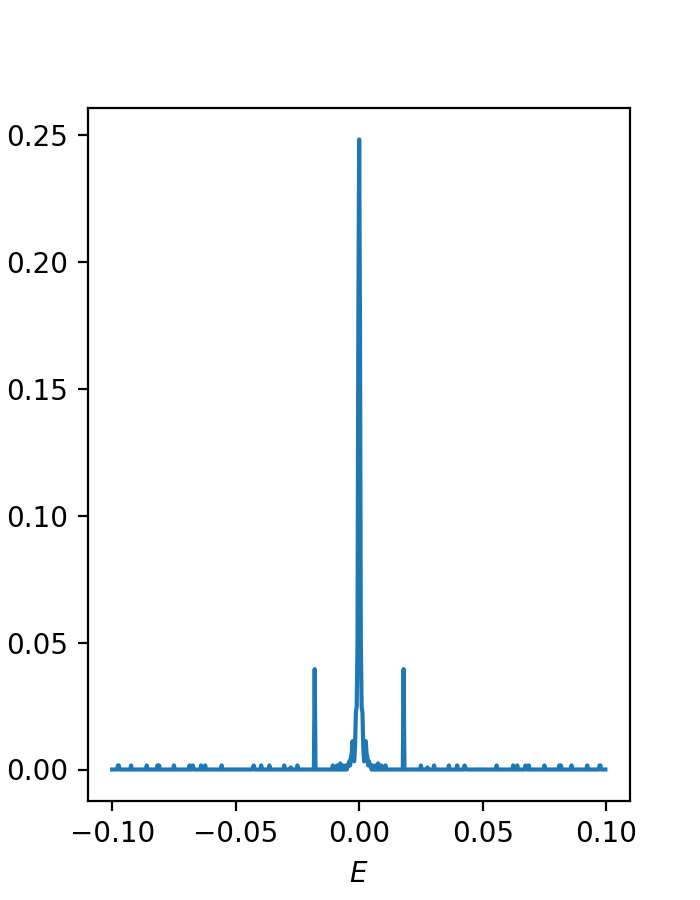
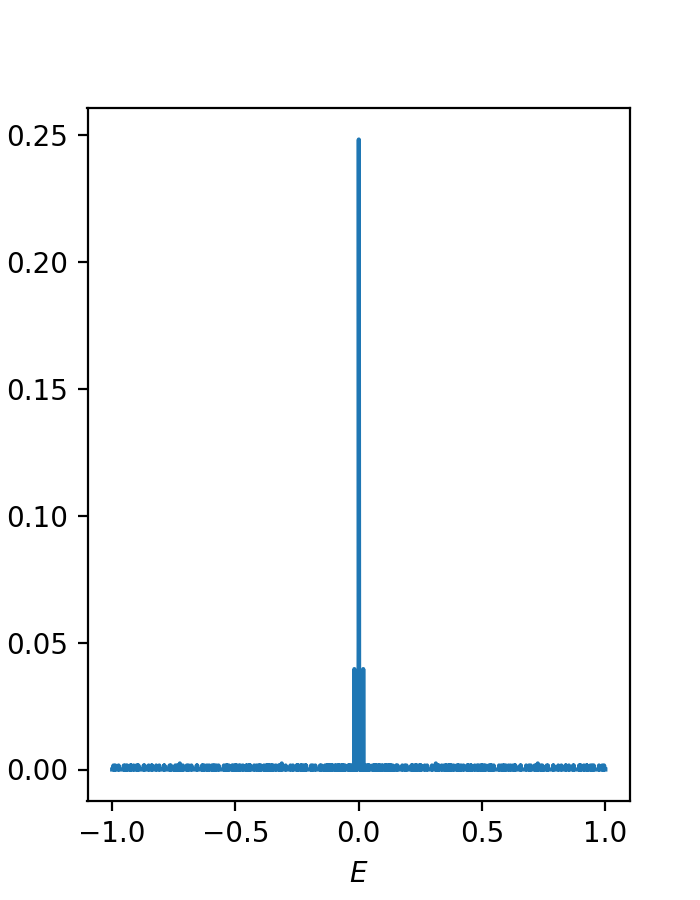
Added knodo dos

diff --git a/kondo_dos.py b/kondo_dos.py
@@ -59,7 +59,7 @@ def main():
 	file = open("ck_with_dos_0.dat", 'w')
 	file.write("j,xi,mu_c,mu_f,rho(0) \n")
 	xs = []
-	for each in range(-300,300):
+	for each in range(-3000,3000):
 		each /= 3000
 		xs.append(each)
 		rho = 0
